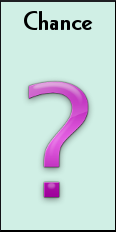
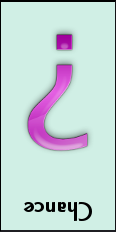
lsdfkjds

Changed region(s): [[0.0, 0.0, 1.0, 1.0]]

diff --git a/css/board.css b/css/board.css
@@ -1,3 +1,7 @@
+nav ul {
+  margin-top: 12px;
+  margin-bottom: 12px; }
+
 #board_full {
   width: 1152px;
   height: 1152px;
@@ -11,12 +15,42 @@
     float: left;
     border: 2px solid black;
     background-image: url(http://placekitten.com/224/224); }
-  #board_full ul > li .top_row {
+  #board_full ul > li #top_row1 {
     width: 112px;
     height: 224px;
     float: left;
     border: 2px solid black;
-    background-image: url(http://placekitten.com/112/224); }
+    background-image: url(../images/purple1.png); }
+  #board_full ul > li #top_row2 {
+    width: 112px;
+    height: 224px;
+    float: left;
+    border: 2px solid black;
+    background-image: url(../images/purple2.png); }
+  #board_full ul > li #top_row3 {
+    width: 112px;
+    height: 224px;
+    float: left;
+    border: 2px solid black;
+    background-image: url(../images/MTA.png); }
+  #board_full ul > li #top_row4 {
+    width: 112px;
+    height: 224px;
+    float: left;
+    border: 2px solid black;
+    background-image: url(../images/babyblue1.png); }
+  #board_full ul > li #top_row5 {
+    width: 112px;
+    height: 224px;
+    float: left;
+    border: 2px solid black;
+    background-image: url(../images/chance_tile.png); }
+  #board_full ul > li #top_row6 {
+    width: 112px;
+    height: 224px;
+    float: left;
+    border: 2px solid black;
+    background-image: url(../images/babyblue2.png); }
   #board_full ul > li #top_row_right {
     width: 224px;
     height: 224px;
@@ -28,7 +62,7 @@
     height: 112px;
     float: left;
     border: 2px solid black;
-    background-image: url(http://placekitten.com/224/112); }
+    background-image: url(../images/blue1.png); }
   #board_full ul > li #first_row_right {
     width: 224px;
     height: 112px;

diff --git a/scss/board.scss b/scss/board.scss
@@ -1,3 +1,9 @@
+nav {
+  ul {
+    margin-top: 12px;
+    margin-bottom: 12px;
+  }
+}
 
 #board_full {
   width: 1152px;
@@ -15,13 +21,49 @@
       border: 2px solid black;
       background-image: url(http://placekitten.com/224/224);
     }
-    .top_row {
+    #top_row1 {
       width: 112px;
       height: 224px;
       float: left;
       border: 2px solid black;
-      background-image: url(http://placekitten.com/112/224)
+      background-image: url(../images/purple1.png)
     }
+    #top_row2 {
+      width: 112px;
+      height: 224px;
+      float: left;
+      border: 2px solid black;
+      background-image: url(../images/purple2.png)
+    }
+    #top_row3 {
+      width: 112px;
+      height: 224px;
+      float: left;
+      border: 2px solid black;
+      background-image: url(../images/MTA.png)
+    }
+    #top_row4 {
+      width: 112px;
+      height: 224px;
+      float: left;
+      border: 2px solid black;
+      background-image: url(../images/babyblue1.png)
+    }
+    #top_row5 {
+      width: 112px;
+      height: 224px;
+      float: left;
+      border: 2px solid black;
+      background-image: url(../images/chance_tile.png)
+    }
+    #top_row6 {
+      width: 112px;
+      height: 224px;
+      float: left;
+      border: 2px solid black;
+      background-image: url(../images/babyblue2.png)
+    }
+
     #top_row_right {
       width: 224px;
       height: 224px;
@@ -34,7 +76,7 @@
       height: 112px;
       float: left;
       border: 2px solid black;
-      background-image: url(http://placekitten.com/224/112)
+      background-image: url(../images/blue1.png)
     }
     #first_row_right {
       width: 224px;

diff --git a/html/board.html b/html/board.html
@@ -44,12 +44,12 @@
       <ul>
         <li>
           <div id='top_row_left'></div>
-          <div class='top_row'></div>
-          <div class='top_row'></div>
-          <div class='top_row'></div>
-          <div class='top_row'></div>
-          <div class='top_row'></div>
-          <div class='top_row'></div>
+          <div id='top_row1'></div>
+          <div id='top_row2'></div>
+          <div id='top_row3'></div>
+          <div id='top_row4'></div>
+          <div id='top_row5'></div>
+          <div id='top_row6'></div>
           <div id='top_row_right'></div>
         </li>
         <li>
